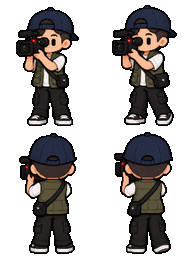
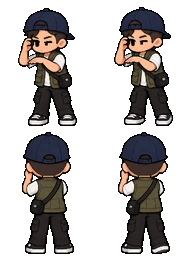
Min dùng máy quay trên chân có sẵn trong game: tư thế quay mới (tay không cầm máy), đứng sau ống kính
- hd_cam.png v2 (Higgsfield): Min đứng điều khiển máy quay, không cầm máy riêng; bản cầm máy cũ giữ ở src/min_cam_handheld_old.png.
- Người quay đi tới ô SAU ống kính theo 4 hướng của camera_tripod (CAM_BEHIND), nhìn cùng hướng ống kính,
  vẽ sát vào chân máy; không tới được ô đó thì đứng cạnh như cũ.
- Đã kiểm tra hình ở cả 4 hướng xoay máy quay.

Claude-Session: https://claude.ai/code/session_01U12xFyGk5BnSd9MzWKWwNb

diff --git a/game/index.html b/game/index.html
@@ -1182,7 +1182,7 @@ async function bootStart(){
 
 function bootEnsure(value){const paths=bootPaths(value);return bootPool(paths,async path=>{await bootLoad(path);await bootActivate(new Set([path]));},3).catch(()=>toast("Một số hình ảnh chưa tải được. Hãy thử lại khi kết nối ổn định.","err"));}
 
-const CHARS=[{"id": "01_Huy", "src": "assets/generated/47dad755268df77d4881f079.webp", "sit": "assets/generated/46c7b88397edc83ba1e7bcbb.webp", "burn": "assets/generated/da76d6a7cb2cf40d925590d5.webp", "chairBlue": "assets/generated/53edfb832d9b2c79372b9235.webp", "chairErgo": "assets/generated/bfd1cf71e60031a5f7096c55.webp", "talk": "assets/generated/28d9cf95fd2fdb4217083b85.webp", "cele": "assets/generated/3214a666ef088a39f8c614bd.webp", "sad": "assets/generated/f7670d8edb462ef87a6019ae.webp", "use": "assets/generated/3c493003cc021641d435581a.webp", "sitScale": 1.0, "portrait": "assets/generated/4372dbb02e5dfb2189af8fa1.webp", "avatar": "assets/generated/9021c6d9776d2bef1161cb93.webp"}, {"id": "02_Luwon", "src": "assets/generated/ea6d75d3e4259bb499111485.webp", "sit": "assets/generated/3578124fb9ed132c87f82a30.webp", "burn": "assets/generated/9ca07322cb4c4ac99d870767.webp", "chairBlue": "assets/generated/fbe75f8b607df10a367d8468.webp", "chairErgo": "assets/generated/97ec76f323eec553043b73df.webp", "talk": "assets/generated/9c66ff41254c538868335127.webp", "cele": "assets/generated/2917c0fb3e1c61365d2bb4a2.webp", "sad": "assets/generated/77a4a2c651e100012ca8c8c4.webp", "use": "assets/generated/9508525aa4fc78014f797088.webp", "sitScale": 1.3131, "portrait": "assets/generated/bcb68dd3b70689a7a9be74c2.webp", "avatar": "assets/generated/e1f8e515f081b8a486878103.webp"}, {"id": "03_Pali", "src": "assets/generated/e5b6918fd6b845461790e9da.webp", "sit": "assets/generated/b5bc2b2fb503b9825db7e026.webp", "burn": "assets/generated/18f97dad1a1bd4dc34c38ebe.webp", "chairBlue": "assets/generated/7cebd0a0ad90be684cf9e5de.webp", "chairErgo": "assets/generated/ee9af855f6346b0d5123ed25.webp", "talk": "assets/generated/48070e1c3313ae881597999a.webp", "cele": "assets/generated/127a9383f43fe1ad32a08ca3.webp", "sad": "assets/generated/3eaa40ee289a1cd6f3e4bfdc.webp", "use": "assets/generated/dee89c50c8acb3db4895779c.webp", "sitScale": 1.2211, "portrait": "assets/generated/eef30f7d91a9f372e18c77b0.webp", "avatar": "assets/generated/b6364ef9b53e61ca64eae5ce.webp"}, {"id": "04_Tamny", "src": "assets/generated/b43ae805d57481fbc6031821.webp", "sit": "assets/generated/73d1d2bc1a62d3fe8389dad3.webp", "burn": "assets/generated/303efad188dc51755680a7ae.webp", "chairBlue": "assets/generated/fc6f23615fd249db8ea6245a.webp", "chairErgo": "assets/generated/d9cdf28ccfb85b0c8263423d.webp", "talk": "assets/generated/beb3a6e38101b1d6e975adb5.webp", "cele": "assets/generated/88ba2080f39b1aaae65eaaee.webp", "sad": "assets/generated/e7fd25e8a2d5bb3b2ba17836.webp", "use": "assets/generated/3ea68ccf96683d30905bc5a9.webp", "sitScale": 1.3263, "portrait": "assets/generated/6a04bc3ebd650c0ec357e764.webp", "avatar": "assets/generated/27cd705f0747754c605f1339.webp"}, {"id": "06_Vu_a_Vu", "src": "assets/generated/00b7ccbbccf435b446798ea4.webp", "sit": "assets/generated/7593857dd3c3f00b6f597c19.webp", "burn": "assets/generated/e85855ed363d4704849fed2e.webp", "chairBlue": "assets/generated/cd9302df02cc11d81b01c758.webp", "chairErgo": "assets/generated/538d4b5370cad6b19a004b67.webp", "talk": "assets/generated/04fa739776fc5acca3fb6058.webp", "cele": "assets/generated/09753bdbb9a49681fe5d9386.webp", "sad": "assets/generated/93e670236ce36ef744141919.webp", "use": "assets/generated/d4c2799b64174dc0f8714d64.webp", "sitScale": 1.215, "portrait": "assets/generated/b2e281f54ef7c86000df5df9.webp", "avatar": "assets/generated/50a2d57294b826d98d9ce53a.webp"}, {"id": "07_Hao_Hao", "src": "assets/generated/6050cc68c555b2cba31e6818.webp", "sit": "assets/generated/60e5cdc36dfe17148ed34cfb.webp", "burn": "assets/generated/5e8b91606a9bcff321610585.webp", "chairBlue": "assets/generated/d42f9e765d63a674b0f7a9fa.webp", "chairErgo": "assets/generated/28afec9daa12102d69a08a30.webp", "talk": "assets/generated/0896f8cd691d704ac84793fb.webp", "cele": "assets/generated/eb6e9a94d5ef996176c9a9d4.webp", "sad": "assets/generated/3ddd1c571991a65c64374330.webp", "use": "assets/generated/83a7b6f9a7568bede497ff0f.webp", "sitScale": 1.4091, "portrait": "assets/generated/9fb4c6e4d55791f42d1098d5.webp", "avatar": "assets/generated/b47723dca5dc7b76aac4aa39.webp"}, {"id": "08_Nganh", "src": "assets/generated/afaa5864307b4099f473cfab.webp", "sit": "assets/generated/1c298d1ed7950d6777dabfc7.webp", "burn": "assets/generated/6f1467f52762df5463b82a16.webp", "chairBlue": "assets/generated/0312bc8dee8c2725d4a5e260.webp", "chairErgo": "assets/generated/d2083c9234026cd5104ee4e0.webp", "talk": "assets/generated/e24319048d469a7aa0c637c6.webp", "cele": "assets/generated/85301d9626490a4485c0290c.webp", "sad": "assets/generated/9da27dc324bb6429625536ea.webp", "use": "assets/generated/d5a9f28d3e57f9edf1f62f8a.webp", "sitScale": 1.3565, "portrait": "assets/generated/440d665cf66f1747d5c46065.webp", "avatar": "assets/generated/2b9c42dfa02c7c232447a2b1.webp"}, {"id": "09_Vit_Vang", "src": "assets/generated/d2d0f974918de05183ddda70.webp", "sit": "assets/generated/82a03970e822deadbc8121e8.webp", "burn": "assets/generated/19b28ee3859da86dd1997069.webp", "chairBlue": "assets/generated/33e38dcfc775f902d95876e7.webp", "chairErgo": "assets/generated/d6253f208f5967287547f28f.webp", "talk": "assets/generated/114d14ec16e006dfded0fae2.webp", "cele": "assets/generated/0c2a8227e2e342faba48a3e2.webp", "sad": "assets/generated/75f6344fcf9a75045f722ae3.webp", "use": "assets/generated/22a456e9ed845bce4f63a61d.webp", "sitScale": 1.2586, "portrait": "assets/generated/e2c0e562251c793046b92541.webp", "avatar": "assets/generated/8bfcbbad0adf1437d247192e.webp"}, {"id": "10_Con_LT", "src": "assets/generated/e753d640734ee56ade3f679c.webp", "sit": "assets/generated/8096c4015e023b56b11887e7.webp", "burn": "assets/generated/f9d5f707630be446314d34da.webp", "chairBlue": "assets/generated/b1235ef11006f86ae6655bf7.webp", "chairErgo": "assets/generated/e76bf3e0c8612b58225b0b3c.webp", "talk": "assets/generated/b1fef4140d375ba58c7301ec.webp", "cele": "assets/generated/ee85dfc719a9564adead6df9.webp", "sad": "assets/generated/fd041ca37232c83ad3192728.webp", "use": "assets/generated/fb3bffe2ae7847a6475d0524.webp", "sitScale": 1.3714, "portrait": "assets/generated/f3907aca614c0a859807b147.webp", "avatar": "assets/generated/85a6c47ee6a25f374a9befdb.webp"}, {"id": "11_Juice", "src": "assets/generated/b69555750983a5b77ed17782.webp", "sit": "assets/generated/bddc18ffed57c6635fede00e.webp", "burn": "assets/generated/1bf753b3f0b601a9332d6854.webp", "chairBlue": "assets/generated/fe7375be2e8865c4d65ab447.webp", "chairErgo": "assets/generated/fcb1cb570f5c327bd0fcd0f2.webp", "talk": "assets/generated/c7042e8319278a712a5e2641.webp", "cele": "assets/generated/c15862e7c43aa70abad5b2a4.webp", "sad": "assets/generated/e3856868b05d518957d36ca7.webp", "use": "assets/generated/3b5212b51b9d8db8bfe02ac3.webp", "sitScale": 1.3448, "portrait": "assets/generated/ed43ec75ce37ab354ac66b59.webp", "avatar": "assets/generated/7a6510f22fd450a30a4cd9c1.webp"}, {"id": "12_ADM", "src": "assets/generated/6262c7a2678f3b6c32f7fa1d.webp", "sit": "assets/generated/967f4084531827c07916e623.webp", "burn": "assets/generated/31b7b12d07ffd6c6eea5d957.webp", "chairBlue": "assets/generated/bf56c86c3c8e6a5e5c050edb.webp", "chairErgo": "assets/generated/9f048f5b929d2523cd2980cb.webp", "talk": "assets/generated/d4799cfb0c419e25cbaaadb1.webp", "cele": "assets/generated/d3ee04c2e681d208276d255b.webp", "sad": "assets/generated/41a0ee543016b501bd74ffde.webp", "use": "assets/generated/1bd4a50110888aa863d83628.webp", "sitScale": 1.3333, "portrait": "assets/generated/1e146c31c7c2d375cdbcd58e.webp", "avatar": "assets/generated/0aa5b47383cff30adb60345a.webp"}, {"id": "13_AB", "src": "assets/generated/cee1c1e7bf32a6757e8f7457.webp", "sit": "assets/generated/f7407a89351963f0318f0329.webp", "burn": "assets/generated/2769e67ecc648dcc37487260.webp", "chairBlue": "assets/generated/46d7ca3d6604efc52bfce409.webp", "chairErgo": "assets/generated/e77c154f5840b2b51f4e9687.webp", "talk": "assets/generated/3891a2b4103b5608ee98418a.webp", "cele": "assets/generated/07336a499461a765c1d9bed8.webp", "sad": "assets/generated/0487a6b271b594d118f4fddf.webp", "use": "assets/generated/8839b7c5f3b9bc34156e0035.webp", "sitScale": 1.3535, "portrait": "assets/generated/6339289988c3cb0215b99813.webp", "avatar": "assets/generated/1cac140c10e218f27268b2bb.webp"}, {"id": "14_HM", "src": "assets/generated/37c9486ea930ecb143d18b3d.webp", "sit": "assets/generated/c55c887e7a4307d9fbcd9f86.webp", "burn": "assets/generated/77ec799bf34e76ea4171c347.webp", "chairBlue": "assets/generated/2b1f1f799dff56531e2a1a33.webp", "chairErgo": "assets/generated/b5d07e1385daad20fb40f6c0.webp", "talk": "assets/generated/4bd7d4095d5603a84d4c70cf.webp", "cele": "assets/generated/3dc2ecd5576be871f8b60913.webp", "sad": "assets/generated/302295d611b7a92dbb367a99.webp", "use": "assets/generated/64a1563547d926bb330c1418.webp", "sitScale": 1.2692, "portrait": "assets/generated/cf33109d85c62dd93815972b.webp", "avatar": "assets/generated/ef4017713f43c938785479a7.webp"}, {"id": "15_CongB", "src": "assets/generated/1b3f88603fe8f73963317317.webp", "sit": "assets/generated/83c4e6021ff1905881239bd6.webp", "burn": "assets/generated/91329627a3e3d878de1f2175.webp", "chairBlue": "assets/generated/f3aea4f6968e02aae30be48d.webp", "chairErgo": "assets/generated/d91d1c623c1b7a7cbd596892.webp", "talk": "assets/generated/1085555521e75e0dc47f253e.webp", "cele": "assets/generated/a43f28640a01b354beb4bcc1.webp", "sad": "assets/generated/9454105ae01d3b994596b22d.webp", "use": "assets/generated/3411cc20ce8e5e77d073e244.webp", "sitScale": 1.3131, "portrait": "assets/generated/d68c4e91a45d589952f3d610.webp", "avatar": "assets/generated/576b632f1fe8f8112d55c884.webp"}, {"id": "16_Min", "src": "assets/generated/b5ecbb1b6d5ef08c54d37c90.webp", "sit": "assets/generated/79999fae8f85570c2d7c09c4.webp", "burn": "assets/generated/d8f13c4cb4265ce351a10332.webp", "chairBlue": "assets/generated/0e7b4790e93ab2363df431e8.webp", "chairErgo": "assets/generated/e7066500c9b08e1416a317bb.webp", "talk": "assets/generated/b4f5719e943906ae212f19af.webp", "cele": "assets/generated/847e9cb8b27829e3fe7d2da5.webp", "sad": "assets/generated/a988b7459501fb9f2b25dcd3.webp", "use": "assets/generated/a6cc422282a024bbe50956db.webp", "cam": "assets/generated/b832406fdc1911803fcbb0d2.webp", "sitScale": 0.9023, "portrait": "assets/generated/ea23550c47e7bf8650300cec.webp", "avatar": "assets/generated/ed36ce34cd1230757b7d2fa7.webp"}, {"id": "17_Liu", "src": "assets/generated/7fc6db4500822469bf4e41cd.webp", "sit": "assets/generated/ff73a5e36447ff3b691acd70.webp", "burn": "assets/generated/3fafab485b20258911fcada5.webp", "chairBlue": "assets/generated/b286818894000a6f12ed88b0.webp", "chairErgo": "assets/generated/60ff5c42e239cca3b1819166.webp", "talk": "assets/generated/98394d4551dbdc82b21d4e2d.webp", "cele": "assets/generated/6bab5124ec213af6a9e10904.webp", "sad": "assets/generated/120cd7d4dbcbaa370ed2e7bd.webp", "use": "assets/generated/6a762767690382796a49fba7.webp", "sitScale": 0.9302, "portrait": "assets/generated/12d13ad05f78d61f506d52d5.webp", "avatar": "assets/generated/db53777f0ec2af2927179c65.webp"}, {"id": "trinh_lac_corrected_v2", "src": "assets/generated/c9a0f66c49403179feba2cf4.webp", "sit": "assets/generated/984d6e8c89f507da7a591c63.webp", "burn": "assets/generated/aac8790544a9f31f046914ad.webp", "chairBlue": "assets/generated/a9eb24ea4905127e9f7073ed.webp", "chairErgo": "assets/generated/d6b37cb57cf0f74bc89b6ea1.webp", "talk": "assets/generated/98bec19e3f4040df8c116a89.webp", "cele": "assets/generated/e2bbfd6c88dc5d937d6226e9.webp", "sad": "assets/generated/dea5d53fd872dda1490e275b.webp", "use": "assets/generated/63cb893a0ba5053313c1e424.webp", "sitScale": 1.156, "portrait": "assets/generated/106969ec11b04d54caea2114.webp", "avatar": "assets/generated/ded7a7b137d9f86befe7b5e7.webp"}];   // 15 nhân vật, sheet 72×64: hàng 0 mặt trước chéo trái-xuống (SW), hàng 1 lưng chéo trái-lên (NW); hướng phải = lật gương
+const CHARS=[{"id": "01_Huy", "src": "assets/generated/47dad755268df77d4881f079.webp", "sit": "assets/generated/46c7b88397edc83ba1e7bcbb.webp", "burn": "assets/generated/da76d6a7cb2cf40d925590d5.webp", "chairBlue": "assets/generated/53edfb832d9b2c79372b9235.webp", "chairErgo": "assets/generated/bfd1cf71e60031a5f7096c55.webp", "talk": "assets/generated/28d9cf95fd2fdb4217083b85.webp", "cele": "assets/generated/3214a666ef088a39f8c614bd.webp", "sad": "assets/generated/f7670d8edb462ef87a6019ae.webp", "use": "assets/generated/3c493003cc021641d435581a.webp", "sitScale": 1.0, "portrait": "assets/generated/4372dbb02e5dfb2189af8fa1.webp", "avatar": "assets/generated/9021c6d9776d2bef1161cb93.webp"}, {"id": "02_Luwon", "src": "assets/generated/ea6d75d3e4259bb499111485.webp", "sit": "assets/generated/3578124fb9ed132c87f82a30.webp", "burn": "assets/generated/9ca07322cb4c4ac99d870767.webp", "chairBlue": "assets/generated/fbe75f8b607df10a367d8468.webp", "chairErgo": "assets/generated/97ec76f323eec553043b73df.webp", "talk": "assets/generated/9c66ff41254c538868335127.webp", "cele": "assets/generated/2917c0fb3e1c61365d2bb4a2.webp", "sad": "assets/generated/77a4a2c651e100012ca8c8c4.webp", "use": "assets/generated/9508525aa4fc78014f797088.webp", "sitScale": 1.3131, "portrait": "assets/generated/bcb68dd3b70689a7a9be74c2.webp", "avatar": "assets/generated/e1f8e515f081b8a486878103.webp"}, {"id": "03_Pali", "src": "assets/generated/e5b6918fd6b845461790e9da.webp", "sit": "assets/generated/b5bc2b2fb503b9825db7e026.webp", "burn": "assets/generated/18f97dad1a1bd4dc34c38ebe.webp", "chairBlue": "assets/generated/7cebd0a0ad90be684cf9e5de.webp", "chairErgo": "assets/generated/ee9af855f6346b0d5123ed25.webp", "talk": "assets/generated/48070e1c3313ae881597999a.webp", "cele": "assets/generated/127a9383f43fe1ad32a08ca3.webp", "sad": "assets/generated/3eaa40ee289a1cd6f3e4bfdc.webp", "use": "assets/generated/dee89c50c8acb3db4895779c.webp", "sitScale": 1.2211, "portrait": "assets/generated/eef30f7d91a9f372e18c77b0.webp", "avatar": "assets/generated/b6364ef9b53e61ca64eae5ce.webp"}, {"id": "04_Tamny", "src": "assets/generated/b43ae805d57481fbc6031821.webp", "sit": "assets/generated/73d1d2bc1a62d3fe8389dad3.webp", "burn": "assets/generated/303efad188dc51755680a7ae.webp", "chairBlue": "assets/generated/fc6f23615fd249db8ea6245a.webp", "chairErgo": "assets/generated/d9cdf28ccfb85b0c8263423d.webp", "talk": "assets/generated/beb3a6e38101b1d6e975adb5.webp", "cele": "assets/generated/88ba2080f39b1aaae65eaaee.webp", "sad": "assets/generated/e7fd25e8a2d5bb3b2ba17836.webp", "use": "assets/generated/3ea68ccf96683d30905bc5a9.webp", "sitScale": 1.3263, "portrait": "assets/generated/6a04bc3ebd650c0ec357e764.webp", "avatar": "assets/generated/27cd705f0747754c605f1339.webp"}, {"id": "06_Vu_a_Vu", "src": "assets/generated/00b7ccbbccf435b446798ea4.webp", "sit": "assets/generated/7593857dd3c3f00b6f597c19.webp", "burn": "assets/generated/e85855ed363d4704849fed2e.webp", "chairBlue": "assets/generated/cd9302df02cc11d81b01c758.webp", "chairErgo": "assets/generated/538d4b5370cad6b19a004b67.webp", "talk": "assets/generated/04fa739776fc5acca3fb6058.webp", "cele": "assets/generated/09753bdbb9a49681fe5d9386.webp", "sad": "assets/generated/93e670236ce36ef744141919.webp", "use": "assets/generated/d4c2799b64174dc0f8714d64.webp", "sitScale": 1.215, "portrait": "assets/generated/b2e281f54ef7c86000df5df9.webp", "avatar": "assets/generated/50a2d57294b826d98d9ce53a.webp"}, {"id": "07_Hao_Hao", "src": "assets/generated/6050cc68c555b2cba31e6818.webp", "sit": "assets/generated/60e5cdc36dfe17148ed34cfb.webp", "burn": "assets/generated/5e8b91606a9bcff321610585.webp", "chairBlue": "assets/generated/d42f9e765d63a674b0f7a9fa.webp", "chairErgo": "assets/generated/28afec9daa12102d69a08a30.webp", "talk": "assets/generated/0896f8cd691d704ac84793fb.webp", "cele": "assets/generated/eb6e9a94d5ef996176c9a9d4.webp", "sad": "assets/generated/3ddd1c571991a65c64374330.webp", "use": "assets/generated/83a7b6f9a7568bede497ff0f.webp", "sitScale": 1.4091, "portrait": "assets/generated/9fb4c6e4d55791f42d1098d5.webp", "avatar": "assets/generated/b47723dca5dc7b76aac4aa39.webp"}, {"id": "08_Nganh", "src": "assets/generated/afaa5864307b4099f473cfab.webp", "sit": "assets/generated/1c298d1ed7950d6777dabfc7.webp", "burn": "assets/generated/6f1467f52762df5463b82a16.webp", "chairBlue": "assets/generated/0312bc8dee8c2725d4a5e260.webp", "chairErgo": "assets/generated/d2083c9234026cd5104ee4e0.webp", "talk": "assets/generated/e24319048d469a7aa0c637c6.webp", "cele": "assets/generated/85301d9626490a4485c0290c.webp", "sad": "assets/generated/9da27dc324bb6429625536ea.webp", "use": "assets/generated/d5a9f28d3e57f9edf1f62f8a.webp", "sitScale": 1.3565, "portrait": "assets/generated/440d665cf66f1747d5c46065.webp", "avatar": "assets/generated/2b9c42dfa02c7c232447a2b1.webp"}, {"id": "09_Vit_Vang", "src": "assets/generated/d2d0f974918de05183ddda70.webp", "sit": "assets/generated/82a03970e822deadbc8121e8.webp", "burn": "assets/generated/19b28ee3859da86dd1997069.webp", "chairBlue": "assets/generated/33e38dcfc775f902d95876e7.webp", "chairErgo": "assets/generated/d6253f208f5967287547f28f.webp", "talk": "assets/generated/114d14ec16e006dfded0fae2.webp", "cele": "assets/generated/0c2a8227e2e342faba48a3e2.webp", "sad": "assets/generated/75f6344fcf9a75045f722ae3.webp", "use": "assets/generated/22a456e9ed845bce4f63a61d.webp", "sitScale": 1.2586, "portrait": "assets/generated/e2c0e562251c793046b92541.webp", "avatar": "assets/generated/8bfcbbad0adf1437d247192e.webp"}, {"id": "10_Con_LT", "src": "assets/generated/e753d640734ee56ade3f679c.webp", "sit": "assets/generated/8096c4015e023b56b11887e7.webp", "burn": "assets/generated/f9d5f707630be446314d34da.webp", "chairBlue": "assets/generated/b1235ef11006f86ae6655bf7.webp", "chairErgo": "assets/generated/e76bf3e0c8612b58225b0b3c.webp", "talk": "assets/generated/b1fef4140d375ba58c7301ec.webp", "cele": "assets/generated/ee85dfc719a9564adead6df9.webp", "sad": "assets/generated/fd041ca37232c83ad3192728.webp", "use": "assets/generated/fb3bffe2ae7847a6475d0524.webp", "sitScale": 1.3714, "portrait": "assets/generated/f3907aca614c0a859807b147.webp", "avatar": "assets/generated/85a6c47ee6a25f374a9befdb.webp"}, {"id": "11_Juice", "src": "assets/generated/b69555750983a5b77ed17782.webp", "sit": "assets/generated/bddc18ffed57c6635fede00e.webp", "burn": "assets/generated/1bf753b3f0b601a9332d6854.webp", "chairBlue": "assets/generated/fe7375be2e8865c4d65ab447.webp", "chairErgo": "assets/generated/fcb1cb570f5c327bd0fcd0f2.webp", "talk": "assets/generated/c7042e8319278a712a5e2641.webp", "cele": "assets/generated/c15862e7c43aa70abad5b2a4.webp", "sad": "assets/generated/e3856868b05d518957d36ca7.webp", "use": "assets/generated/3b5212b51b9d8db8bfe02ac3.webp", "sitScale": 1.3448, "portrait": "assets/generated/ed43ec75ce37ab354ac66b59.webp", "avatar": "assets/generated/7a6510f22fd450a30a4cd9c1.webp"}, {"id": "12_ADM", "src": "assets/generated/6262c7a2678f3b6c32f7fa1d.webp", "sit": "assets/generated/967f4084531827c07916e623.webp", "burn": "assets/generated/31b7b12d07ffd6c6eea5d957.webp", "chairBlue": "assets/generated/bf56c86c3c8e6a5e5c050edb.webp", "chairErgo": "assets/generated/9f048f5b929d2523cd2980cb.webp", "talk": "assets/generated/d4799cfb0c419e25cbaaadb1.webp", "cele": "assets/generated/d3ee04c2e681d208276d255b.webp", "sad": "assets/generated/41a0ee543016b501bd74ffde.webp", "use": "assets/generated/1bd4a50110888aa863d83628.webp", "sitScale": 1.3333, "portrait": "assets/generated/1e146c31c7c2d375cdbcd58e.webp", "avatar": "assets/generated/0aa5b47383cff30adb60345a.webp"}, {"id": "13_AB", "src": "assets/generated/cee1c1e7bf32a6757e8f7457.webp", "sit": "assets/generated/f7407a89351963f0318f0329.webp", "burn": "assets/generated/2769e67ecc648dcc37487260.webp", "chairBlue": "assets/generated/46d7ca3d6604efc52bfce409.webp", "chairErgo": "assets/generated/e77c154f5840b2b51f4e9687.webp", "talk": "assets/generated/3891a2b4103b5608ee98418a.webp", "cele": "assets/generated/07336a499461a765c1d9bed8.webp", "sad": "assets/generated/0487a6b271b594d118f4fddf.webp", "use": "assets/generated/8839b7c5f3b9bc34156e0035.webp", "sitScale": 1.3535, "portrait": "assets/generated/6339289988c3cb0215b99813.webp", "avatar": "assets/generated/1cac140c10e218f27268b2bb.webp"}, {"id": "14_HM", "src": "assets/generated/37c9486ea930ecb143d18b3d.webp", "sit": "assets/generated/c55c887e7a4307d9fbcd9f86.webp", "burn": "assets/generated/77ec799bf34e76ea4171c347.webp", "chairBlue": "assets/generated/2b1f1f799dff56531e2a1a33.webp", "chairErgo": "assets/generated/b5d07e1385daad20fb40f6c0.webp", "talk": "assets/generated/4bd7d4095d5603a84d4c70cf.webp", "cele": "assets/generated/3dc2ecd5576be871f8b60913.webp", "sad": "assets/generated/302295d611b7a92dbb367a99.webp", "use": "assets/generated/64a1563547d926bb330c1418.webp", "sitScale": 1.2692, "portrait": "assets/generated/cf33109d85c62dd93815972b.webp", "avatar": "assets/generated/ef4017713f43c938785479a7.webp"}, {"id": "15_CongB", "src": "assets/generated/1b3f88603fe8f73963317317.webp", "sit": "assets/generated/83c4e6021ff1905881239bd6.webp", "burn": "assets/generated/91329627a3e3d878de1f2175.webp", "chairBlue": "assets/generated/f3aea4f6968e02aae30be48d.webp", "chairErgo": "assets/generated/d91d1c623c1b7a7cbd596892.webp", "talk": "assets/generated/1085555521e75e0dc47f253e.webp", "cele": "assets/generated/a43f28640a01b354beb4bcc1.webp", "sad": "assets/generated/9454105ae01d3b994596b22d.webp", "use": "assets/generated/3411cc20ce8e5e77d073e244.webp", "sitScale": 1.3131, "portrait": "assets/generated/d68c4e91a45d589952f3d610.webp", "avatar": "assets/generated/576b632f1fe8f8112d55c884.webp"}, {"id": "16_Min", "src": "assets/generated/b5ecbb1b6d5ef08c54d37c90.webp", "sit": "assets/generated/79999fae8f85570c2d7c09c4.webp", "burn": "assets/generated/d8f13c4cb4265ce351a10332.webp", "chairBlue": "assets/generated/0e7b4790e93ab2363df431e8.webp", "chairErgo": "assets/generated/e7066500c9b08e1416a317bb.webp", "talk": "assets/generated/b4f5719e943906ae212f19af.webp", "cele": "assets/generated/847e9cb8b27829e3fe7d2da5.webp", "sad": "assets/generated/a988b7459501fb9f2b25dcd3.webp", "use": "assets/generated/a6cc422282a024bbe50956db.webp", "cam": "assets/generated/46dff8108106bd1693fb6519.webp", "sitScale": 0.9023, "portrait": "assets/generated/ea23550c47e7bf8650300cec.webp", "avatar": "assets/generated/ed36ce34cd1230757b7d2fa7.webp"}, {"id": "17_Liu", "src": "assets/generated/7fc6db4500822469bf4e41cd.webp", "sit": "assets/generated/ff73a5e36447ff3b691acd70.webp", "burn": "assets/generated/3fafab485b20258911fcada5.webp", "chairBlue": "assets/generated/b286818894000a6f12ed88b0.webp", "chairErgo": "assets/generated/60ff5c42e239cca3b1819166.webp", "talk": "assets/generated/98394d4551dbdc82b21d4e2d.webp", "cele": "assets/generated/6bab5124ec213af6a9e10904.webp", "sad": "assets/generated/120cd7d4dbcbaa370ed2e7bd.webp", "use": "assets/generated/6a762767690382796a49fba7.webp", "sitScale": 0.9302, "portrait": "assets/generated/12d13ad05f78d61f506d52d5.webp", "avatar": "assets/generated/db53777f0ec2af2927179c65.webp"}, {"id": "trinh_lac_corrected_v2", "src": "assets/generated/c9a0f66c49403179feba2cf4.webp", "sit": "assets/generated/984d6e8c89f507da7a591c63.webp", "burn": "assets/generated/aac8790544a9f31f046914ad.webp", "chairBlue": "assets/generated/a9eb24ea4905127e9f7073ed.webp", "chairErgo": "assets/generated/d6b37cb57cf0f74bc89b6ea1.webp", "talk": "assets/generated/98bec19e3f4040df8c116a89.webp", "cele": "assets/generated/e2bbfd6c88dc5d937d6226e9.webp", "sad": "assets/generated/dea5d53fd872dda1490e275b.webp", "use": "assets/generated/63cb893a0ba5053313c1e424.webp", "sitScale": 1.156, "portrait": "assets/generated/106969ec11b04d54caea2114.webp", "avatar": "assets/generated/ded7a7b137d9f86befe7b5e7.webp"}];   // 15 nhân vật, sheet 72×64: hàng 0 mặt trước chéo trái-xuống (SW), hàng 1 lưng chéo trái-lên (NW); hướng phải = lật gương
 const CREATOR={"scale": 50, "bases": {"m": {"char": "15_CongB", "lum": {"1": [89.5, 207.3, 219.1], "2": [25.3, 48.2, 64.5], "3": [135.5, 236.6, 255.0], "4": [21.5, 40.8, 83.2]}, "masks": {"walk": "assets/generated/a01edb83e1fa6e0b57e01bbd.webp", "sit": "assets/generated/71c18a78e4a9bd697e7a59e7.webp", "use": "assets/generated/b5c52923ac334a359bcb857b.webp", "talk": "assets/generated/15e16734e72bc349a7c56f5a.webp", "cele": "assets/generated/f6fe91b0a4266eeb71762c05.webp", "sad": "assets/generated/a388b00523749a4b334b0a67.webp", "burn": "assets/generated/7bd37c9414b40ff5bdeb3ebd.webp"}}, "f": {"char": "07_Hao_Hao", "lum": {"1": [92.8, 210.5, 222.7], "2": [23.3, 47.8, 61.1], "3": [56.5, 207.9, 242.1], "4": [66.9, 167.3, 197.5]}, "masks": {"walk": "assets/generated/7b4d7d2fa2068cfe8e3758f0.webp", "sit": "assets/generated/13e1ad27020b659a1ad6f16c.webp", "use": "assets/generated/99850a3e25ac2c62839ac674.webp", "talk": "assets/generated/bd04579abb207131fb160956.webp", "cele": "assets/generated/707f34e5f14f5fdab299963a.webp", "sad": "assets/generated/6f023c2ce63961f7cf4af8f5.webp", "burn": "assets/generated/90a11d2d0af2cd7a74513026.webp"}}, "m2": {"char": "C_short_m", "lum": {"1": [116.9, 202.2, 213.0], "2": [24.2, 50.9, 63.6], "3": [37.8, 91.8, 101.8], "4": [26.7, 77.2, 90.9]}, "masks": {"walk": "assets/generated/e9c56980968bbca3b010d914.webp", "sit": "assets/generated/36a6fe119d7f222b54ac238e.webp", "use": "assets/generated/0114fe551777f16fbe13064f.webp", "talk": "assets/generated/bfb9ad8fcb2e54722b48d3c8.webp", "cele": "assets/generated/f3d7c8941d2266c6c45c91aa.webp", "sad": "assets/generated/3775c20691f5d4612635b92f.webp"}, "sheets": {"src": "assets/generated/55116681863f6f6836c1ad99.webp", "sit": "assets/generated/009e35fd558db5eb141fda4d.webp", "use": "assets/generated/a5694013b6c4e6d40ea874b3.webp", "talk": "assets/generated/4e5f7698ecae8775f781d330.webp", "cele": "assets/generated/ae92106460e70b0ab21760e6.webp", "sad": "assets/generated/7b47e00db5fde674d4b80714.webp"}, "sitScale": 0.8923}, "f2": {"char": "C_short_f", "lum": {"1": [102.6, 205.4, 216.4], "2": [22.2, 49.2, 61.4], "3": [38.6, 95.2, 106.5], "4": [39.3, 102.0, 114.7]}, "masks": {"walk": "assets/generated/0170c19524b8aba86782b55b.webp", "sit": "assets/generated/12311dac94cf73f546c05407.webp", "use": "assets/generated/b056687cc3f777a24b242132.webp", "talk": "assets/generated/39807717b0bea64815b1af58.webp", "cele": "assets/generated/de68b6df0111e631b48f9352.webp", "sad": "assets/generated/a3269b0f3d361d11e1391f43.webp"}, "sheets": {"src": "assets/generated/563a30a11fed55fb5621a905.webp", "sit": "assets/generated/58a4bf3f3ce4676d47f795c3.webp", "use": "assets/generated/fc4663a469e462a96b4730d1.webp", "talk": "assets/generated/ad6c7990368cea44d4a58e33.webp", "cele": "assets/generated/c49433068f1ac3d58ef66e0a.webp", "sad": "assets/generated/c86e3e62e1273438c3d64688.webp"}, "sitScale": 0.9919}}};   // dáng gốc + mặt nạ vùng cho "Tự tạo nhân vật" (player.js)
 // Nhân vật tự tạo của người chơi là một nhân vật thêm "P_custom": dùng ảnh của dáng gốc, đổi màu ngay sau khi tải (player.js).
 const PLAYER_BOOT=(()=>{ try{ const o=JSON.parse((VISIT?VISIT.raw:localStorage.getItem(SAVE))||"null"), p=o&&o.gs&&o.gs.player; return p&&p.kind==="custom"&&p.look&&CREATOR.bases[p.look.base]?p:null; }catch(e){ return null; } })();
@@ -2004,15 +2004,20 @@ function stationFor(a){
 function shootingAt(a){ const o=a&&a.state==='shoot'&&a.useObj!=null&&OBJS.find(b=>b.uid===a.useObj); return o&&BUSY.get(o.uid)===a?o:null; }
 function releaseStation(a){ if(a.useObj!=null&&BUSY.get(a.useObj)===a) BUSY.delete(a.useObj); a.useObj=null; if(a.state==='shoot'||a.state==='toShoot'){ a.state='wander'; a.wait=.2; a.path=[]; } }
 function nearObj(here,o){ const [w,d]=FBY[o.id].views[o.rot].fp; return ((here[0]===o.gx-1||here[0]===o.gx+w)&&here[1]>=o.gy&&here[1]<o.gy+d)||((here[1]===o.gy-1||here[1]===o.gy+d)&&here[0]>=o.gx&&here[0]<o.gx+w); }
+// 15/10/2026: máy quay trên chân (camera_tripod) — người quay đứng SAU ống kính, nhìn cùng hướng ống kính.
+// rot 0..3 = 01_front_left, 02_front_right, 03_back_right, 04_back_left: ống kính hướng +y (SW), +x (SE), −y (NE), −x (NW).
+const CAM_BEHIND=[[0,-1,'SW'],[-1,0,'SE'],[0,1,'NE'],[1,0,'NW']];
+function camOperatorSpot(o){ if(!o||o.id!=='camera_tripod')return null; const [dx,dy,dir]=CAM_BEHIND[o.rot%4], x=o.gx+dx, y=o.gy+dy;
+ const R=typeof REACH!=='undefined'?REACH:null; return (!blocked(x,y)&&(!R||(R[y]&&R[y][x])))?{x,y,dir}:null; }
 function stepShoot(a,dt,here){
  if(a.state==='shoot'){ const st=stationFor(a); if(!st||st.uid!==a.useObj){ releaseStation(a); return false; } a.t+=dt; return true; }
  if((a.shootRetry||0)>0){ a.shootRetry-=dt; if(a.state==='toShoot') releaseStation(a); return false; }
  const st=stationFor(a); if(!st){ if(a.state==='toShoot') releaseStation(a); return false; }
  if(a.state==='toShoot'&&a.useObj===st.uid){
-  if(nearObj(here,st)){ a.state='shoot'; a.t=0; a.dir=faceToward(a,st); return true; }
+  if(nearObj(here,st)){ const cs=camOperatorSpot(st); a.state='shoot'; a.t=0; a.dir=cs&&cs.x===here[0]&&cs.y===here[1]?cs.dir:faceToward(a,st); return true; }
   releaseStation(a); a.shootRetry=STATION_RETRY; return false;   // không tới được: làm ở bàn một lúc rồi thử lại
  }
- const sp=useSpot(st); const p=sp&&bfs(here,sp,true); if(!p){ a.shootRetry=STATION_RETRY; return false; }
+ const cs=camOperatorSpot(st), sp=cs?[cs.x,cs.y]:useSpot(st); const p=sp&&bfs(here,sp,true); if(!p){ a.shootRetry=STATION_RETRY; return false; }
  if(a.state==='sit'&&a.acc)[a.x,a.y]=a.acc;
  if(a.useObj!=null&&a.useObj!==st.uid&&BUSY.get(a.useObj)===a) BUSY.delete(a.useObj);
  a.useObj=st.uid; BUSY.set(st.uid,a); a.state='toShoot'; a.react=null; a.path=p.slice(1); a.wait=0;
@@ -3087,7 +3092,8 @@ function drawAgent0(c,a){
     c.drawImage(IMGS[a.ci],96,(back?1:0)*128,96,128,-12,-31,24,32); c.restore();
     drawFlame(c,sx,sy-30,a.t); return; }
   if(a.state==="shoot"&&a.useObj&&(CAMIMGS[a.ci]||UIMGS[a.ci])){ const o=OBJS.find(b=>b.uid===a.useObj), cam=CAMIMGS[a.ci]&&o&&o.id!=="sound_booth", img=cam?CAMIMGS[a.ci]:UIMGS[a.ci];
-    const [sx,sy]=iso(a.x+0.5,a.y+0.5), back=(a.dir==="NW"||a.dir==="NE"), flip=(a.dir==="SE"||a.dir==="NE"), col=Math.floor(a.t*(cam?1.5:2.5))%2;
+    const cs=o&&typeof camOperatorSpot==="function"?camOperatorSpot(o):null, behind=cs&&Math.floor(a.x)===cs.x&&Math.floor(a.y)===cs.y;   // 15/10: đứng sau máy quay — vẽ sát vào chân máy
+    const [sx,sy]=behind?iso(a.x+0.5-(cs.x-o.gx)*.42,a.y+0.5-(cs.y-o.gy)*.42):iso(a.x+0.5,a.y+0.5), back=(a.dir==="NW"||a.dir==="NE"), flip=(a.dir==="SE"||a.dir==="NE"), col=Math.floor(a.t*(cam?1.5:2.5))%2;
     c.save(); c.translate(Math.round(sx),Math.round(sy+2)); if(flip) c.scale(-1,1); c.fillStyle="rgba(80,40,10,.25)"; c.beginPath(); c.ellipse(0,-.5,6,2.3,0,0,Math.PI*2); c.fill(); c.drawImage(img,col*96,(back?1:0)*128,96,128,-12,-31,24,32); c.restore(); return; }
   if(a.state==="use"&&a.useObj&&UIMGS[a.ci]){ const o=OBJS.find(b=>b.uid===a.useObj); if(o&&USE[o.id].pose==="use"){ const [sx,sy]=iso(a.x+0.5,a.y+0.5), back=(a.dir==="NW"||a.dir==="NE"), flip=(a.dir==="SE"||a.dir==="NE"), col=Math.floor(a.useT*2.5)%2;
     c.save(); c.translate(Math.round(sx),Math.round(sy+2)); if(flip) c.scale(-1,1); c.fillStyle="rgba(80,40,10,.25)"; c.beginPath(); c.ellipse(0,-.5,6,2.3,0,0,Math.PI*2); c.fill(); c.drawImage(UIMGS[a.ci],col*96,(back?1:0)*128,96,128,-12,-31,24,32); c.restore(); return; } }

diff --git a/source/pipeline.js b/source/pipeline.js
@@ -77,15 +77,20 @@ function stationFor(a){
 function shootingAt(a){ const o=a&&a.state==='shoot'&&a.useObj!=null&&OBJS.find(b=>b.uid===a.useObj); return o&&BUSY.get(o.uid)===a?o:null; }
 function releaseStation(a){ if(a.useObj!=null&&BUSY.get(a.useObj)===a) BUSY.delete(a.useObj); a.useObj=null; if(a.state==='shoot'||a.state==='toShoot'){ a.state='wander'; a.wait=.2; a.path=[]; } }
 function nearObj(here,o){ const [w,d]=FBY[o.id].views[o.rot].fp; return ((here[0]===o.gx-1||here[0]===o.gx+w)&&here[1]>=o.gy&&here[1]<o.gy+d)||((here[1]===o.gy-1||here[1]===o.gy+d)&&here[0]>=o.gx&&here[0]<o.gx+w); }
+// 15/10/2026: máy quay trên chân (camera_tripod) — người quay đứng SAU ống kính, nhìn cùng hướng ống kính.
+// rot 0..3 = 01_front_left, 02_front_right, 03_back_right, 04_back_left: ống kính hướng +y (SW), +x (SE), −y (NE), −x (NW).
+const CAM_BEHIND=[[0,-1,'SW'],[-1,0,'SE'],[0,1,'NE'],[1,0,'NW']];
+function camOperatorSpot(o){ if(!o||o.id!=='camera_tripod')return null; const [dx,dy,dir]=CAM_BEHIND[o.rot%4], x=o.gx+dx, y=o.gy+dy;
+ const R=typeof REACH!=='undefined'?REACH:null; return (!blocked(x,y)&&(!R||(R[y]&&R[y][x])))?{x,y,dir}:null; }
 function stepShoot(a,dt,here){
  if(a.state==='shoot'){ const st=stationFor(a); if(!st||st.uid!==a.useObj){ releaseStation(a); return false; } a.t+=dt; return true; }
  if((a.shootRetry||0)>0){ a.shootRetry-=dt; if(a.state==='toShoot') releaseStation(a); return false; }
  const st=stationFor(a); if(!st){ if(a.state==='toShoot') releaseStation(a); return false; }
  if(a.state==='toShoot'&&a.useObj===st.uid){
-  if(nearObj(here,st)){ a.state='shoot'; a.t=0; a.dir=faceToward(a,st); return true; }
+  if(nearObj(here,st)){ const cs=camOperatorSpot(st); a.state='shoot'; a.t=0; a.dir=cs&&cs.x===here[0]&&cs.y===here[1]?cs.dir:faceToward(a,st); return true; }
   releaseStation(a); a.shootRetry=STATION_RETRY; return false;   // không tới được: làm ở bàn một lúc rồi thử lại
  }
- const sp=useSpot(st); const p=sp&&bfs(here,sp,true); if(!p){ a.shootRetry=STATION_RETRY; return false; }
+ const cs=camOperatorSpot(st), sp=cs?[cs.x,cs.y]:useSpot(st); const p=sp&&bfs(here,sp,true); if(!p){ a.shootRetry=STATION_RETRY; return false; }
  if(a.state==='sit'&&a.acc)[a.x,a.y]=a.acc;
  if(a.useObj!=null&&a.useObj!==st.uid&&BUSY.get(a.useObj)===a) BUSY.delete(a.useObj);
  a.useObj=st.uid; BUSY.set(st.uid,a); a.state='toShoot'; a.react=null; a.path=p.slice(1); a.wait=0;

diff --git a/source/template.html b/source/template.html
@@ -963,7 +963,8 @@ function drawAgent0(c,a){
     c.drawImage(IMGS[a.ci],96,(back?1:0)*128,96,128,-12,-31,24,32); c.restore();
     drawFlame(c,sx,sy-30,a.t); return; }
   if(a.state==="shoot"&&a.useObj&&(CAMIMGS[a.ci]||UIMGS[a.ci])){ const o=OBJS.find(b=>b.uid===a.useObj), cam=CAMIMGS[a.ci]&&o&&o.id!=="sound_booth", img=cam?CAMIMGS[a.ci]:UIMGS[a.ci];
-    const [sx,sy]=iso(a.x+0.5,a.y+0.5), back=(a.dir==="NW"||a.dir==="NE"), flip=(a.dir==="SE"||a.dir==="NE"), col=Math.floor(a.t*(cam?1.5:2.5))%2;
+    const cs=o&&typeof camOperatorSpot==="function"?camOperatorSpot(o):null, behind=cs&&Math.floor(a.x)===cs.x&&Math.floor(a.y)===cs.y;   // 15/10: đứng sau máy quay — vẽ sát vào chân máy
+    const [sx,sy]=behind?iso(a.x+0.5-(cs.x-o.gx)*.42,a.y+0.5-(cs.y-o.gy)*.42):iso(a.x+0.5,a.y+0.5), back=(a.dir==="NW"||a.dir==="NE"), flip=(a.dir==="SE"||a.dir==="NE"), col=Math.floor(a.t*(cam?1.5:2.5))%2;
     c.save(); c.translate(Math.round(sx),Math.round(sy+2)); if(flip) c.scale(-1,1); c.fillStyle="rgba(80,40,10,.25)"; c.beginPath(); c.ellipse(0,-.5,6,2.3,0,0,Math.PI*2); c.fill(); c.drawImage(img,col*96,(back?1:0)*128,96,128,-12,-31,24,32); c.restore(); return; }
   if(a.state==="use"&&a.useObj&&UIMGS[a.ci]){ const o=OBJS.find(b=>b.uid===a.useObj); if(o&&USE[o.id].pose==="use"){ const [sx,sy]=iso(a.x+0.5,a.y+0.5), back=(a.dir==="NW"||a.dir==="NE"), flip=(a.dir==="SE"||a.dir==="NE"), col=Math.floor(a.useT*2.5)%2;
     c.save(); c.translate(Math.round(sx),Math.round(sy+2)); if(flip) c.scale(-1,1); c.fillStyle="rgba(80,40,10,.25)"; c.beginPath(); c.ellipse(0,-.5,6,2.3,0,0,Math.PI*2); c.fill(); c.drawImage(UIMGS[a.ci],col*96,(back?1:0)*128,96,128,-12,-31,24,32); c.restore(); return; } }

diff --git a/scripts/prepare_new_chars.py b/scripts/prepare_new_chars.py
@@ -6,7 +6,10 @@ Nguồn: Higgsfield gpt_image_2_5 (high, 2k, nền trong), đã thu nhỏ 1/2, n
   <tên>_burn_raw.png        2×2  bốc hỏa trước/sau
   <tên>_chair_blue_raw.png  2×2  ngồi ghế xanh 4 góc
   <tên>_chair_ergo_raw.png  2×2  ngồi ghế công thái học 4 góc
-  min_cam_raw.png          2×2  cầm máy quay trước/sau (chỉ Min) → hd_cam.png
+  min_cam_raw.png          2×2  tư thế quay phim (chỉ Min) → hd_cam.png
+  15/10/2026: hd_cam.png v2 (đứng sau máy quay trên chân của game, tay không cầm máy) vẽ bằng Higgsfield
+  (job 356bd68b), xử lý cùng cách cam() ngoài máy; bản cầm máy cũ giữ ở src/min_cam_handheld_old.png.
+  Không có min_cam_raw.png thì cam() bỏ qua, giữ nguyên hd_cam.png hiện có.
 Bố cục lấy theo bộ hình Huy (assets/characters/01_Huy/src_v2). Cỡ đầu lấy theo một nhân vật cùng giới.
 Chạy: python3 -I scripts/prepare_new_chars.py  rồi python3 source/build.py
 """
